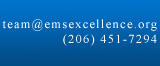
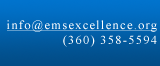
just a commit

diff --git a/templates/base.html b/templates/base.html
@@ -22,8 +22,8 @@
     <div id="container_A">
 <div id="container_B">
     
-    <h1 id="home"><span>The EMS Excellence Foundation</span><div id="contact_info">
-    </div></h1>
+    <h1 id="home"><span>The EMS Excellence Foundation</span><a id="contact_info" href="mailto:info@emsexcellence.org">
+    </a></h1>
     <div id="account_bar">
 {% if is_user_logged_in %}
 <strong>{{ user.first_name }} {{ user.last_name }}</strong> | <a href="">My Profile</a> | <a href="/logout/">Logout</a>
@@ -33,25 +33,43 @@
 {% if login_failed_username %}<strong>Sorry login failed</strong> {% endif %}Username: <input type="" name="username"{% if login_failed_username %} value="{{ login_failed_username }}"{% endif %}></input> Password: <input type="password" name="password"></input><input type="submit" value="Login" />
 </form> 
 {% endif %}
+<!--
+Our mission is critical. We have to succeed. If we don’t succeed then we need to ensure our successors succeed. 
+
+No one has the complete picture. Not the field
+provider, not the chief, not the medical director, not the dispatcher, not the
+nurse, not the mayor, not the council member, not the billings
+specialist, not the quality assurance specialist, and not the patient. To get the complete
+picture you have to talk to them all.
+
+-->
 </div>
     <div id="sidebar">
         <div class="link_section_header"><span>Learn About Us</span>
         <ul>
             <li><a href="">Acknowledgements</a></li>
             <li><a href="">Who We Are</a></li>
-            
             <li><a href="">Our History</a></li>
             <li><a href="">Our Mission &amp; Strategy</a></li>
+            <!--<li><a href="">Our Commitment to Public Transparency</a></li>-->
+            <li><a href="">Our Organizational Culture &amp; Structure</a></li>
+            
+            
+            
+            
+            
+            <li><a href="">Our Performance</a></li>
+            <!--
             <li><a href="">Our Motivation</a></li>
             <li><a href="">Our Strategy</a></li>
             <li><a href="">Our Core Values</a></li>
             <li><a href="">Our Philosophy</a></li>
             <li><a href="">Our Policies and Procedures</a></li>
-            <li><a href="">Criticism We've Received</a></li>
-            <li><a href="">Our Commitment to Being Publicly Transparent</a></li>
+            <li><a href="">Criticism We've Received</a></li>-->
+            
             </ul>
         </div>
-                <div class="link_section_header"><span>Visit Our Projects</span>
+                <div class="link_section_header"><span>Visit Our Core Projects</span>
         <ul>
             <li><a href="">The Definition of Excellence in EMS</a></li>
             <li><a href="">EMS Census</a></li>
@@ -72,7 +90,8 @@
         </div>
         <div class="link_section_header"><span>Get Involved</span>
         <ul>
-        <li><a href="">Help Create Our Strategy</a></li>
+        <li><a href="">Tell Us Your Opinions</a></li>
+        <!--<li><a href="">Help Create Our Strategy</a></li>-->
             </ul>
         
         

diff --git a/templates/homepage.html b/templates/homepage.html
@@ -1,5 +1,5 @@
 {% extends "base.html" %}
 {% block title %}The EMS Excellence Foundation{% endblock %}
 {% block content %}
-<p>Welcome to the <strong><abbr title="Emergency Medical Services">EMS</abbr> Excellence Foundation</strong>. We are an international non-profit organization determined to make the delivery of out-of-hospital emergency care consistently excellent from community to community by <a href="http://definitionofexcellence.org">defining excellence</a>, <a href="http://emscensus.org">collecting data</a>, and <a href="http://emsimprovement.org">empowering people</a>.</p>
+<p>Welcome to the <strong><abbr title="Emergency Medical Services">EMS</abbr> Excellence Foundation</strong>. We are an international non-profit organization dedicated to helping make the delivery of out-of-hospital emergency care consistently excellent from community to community by <a href="http://definitionofexcellence.org">defining excellence</a>, <a href="http://emscensus.org">collecting data</a>, and <a href="http://emsimprovement.org">empowering people</a>.</p>
 {% endblock %}

diff --git a/media/css/screen.css b/media/css/screen.css
@@ -52,8 +52,6 @@ padding-top:20px
 }
 
 .link_section_header ul {
-    list-style:square;
-    padding-left:20px;
     margin-bottom:7px;
 }
 
@@ -64,19 +62,17 @@ padding-top:20px
 #sidebar {
     float:right;
     width:160px;
-    padding-left:20px;
 }
 
 #sidebar a:link, #sidebar a:visited {
     display:block;
+    padding-left:20px;
+    background:url('../images/link_arrow.png') 0 6px no-repeat;
 }
 
 #sidebar a:hover {
     text-decoration:none;
-}
-
-#sidebar li {
-    margin-bottom:3px;
+    background:url('../images/current_link_arrow.png') 0 6px no-repeat;
 }
 
 #content_container {
@@ -100,12 +96,20 @@ text-decoration:none;
     text-align:left;
 }
 
-#contact_info {
+#contact_info:link, #contact_info:visited {
     float:right;
     display:block;
     width:160px;
     height:66px;
     background:url('../images/contact_info.png');
+}
+
+#contact_info:hover {
+    float:right;
+    display:block;
+    width:160px;
+    height:66px;
+    background:url('../images/contact_info_hover.png');
 }
 
 #footer_container {
